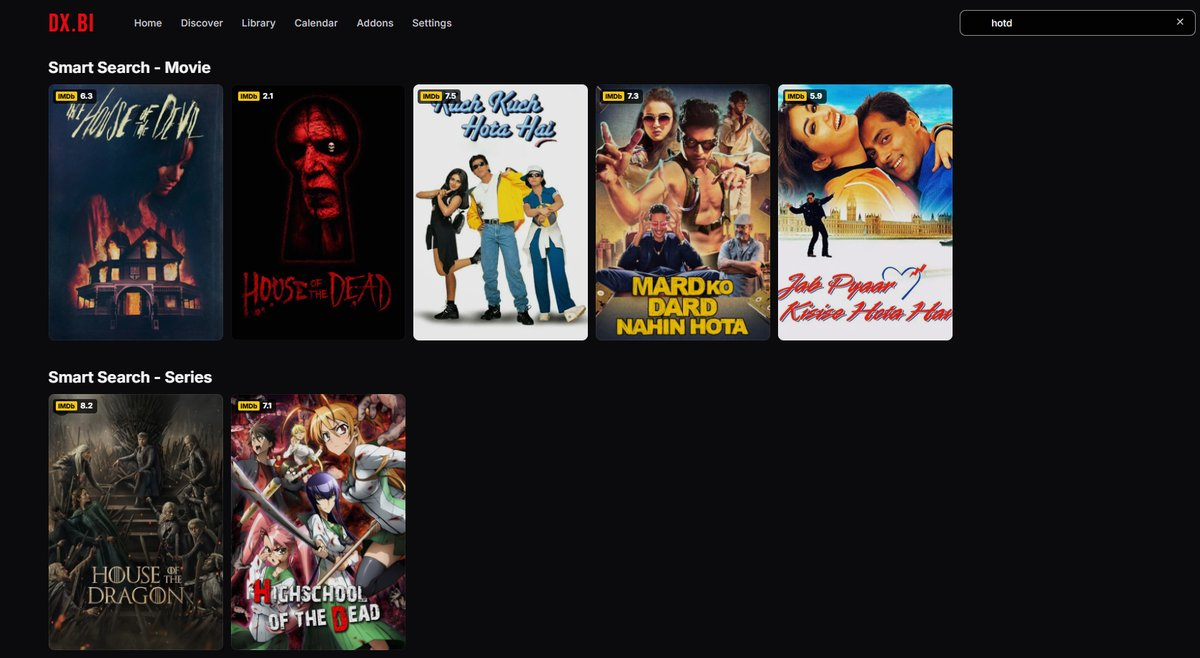
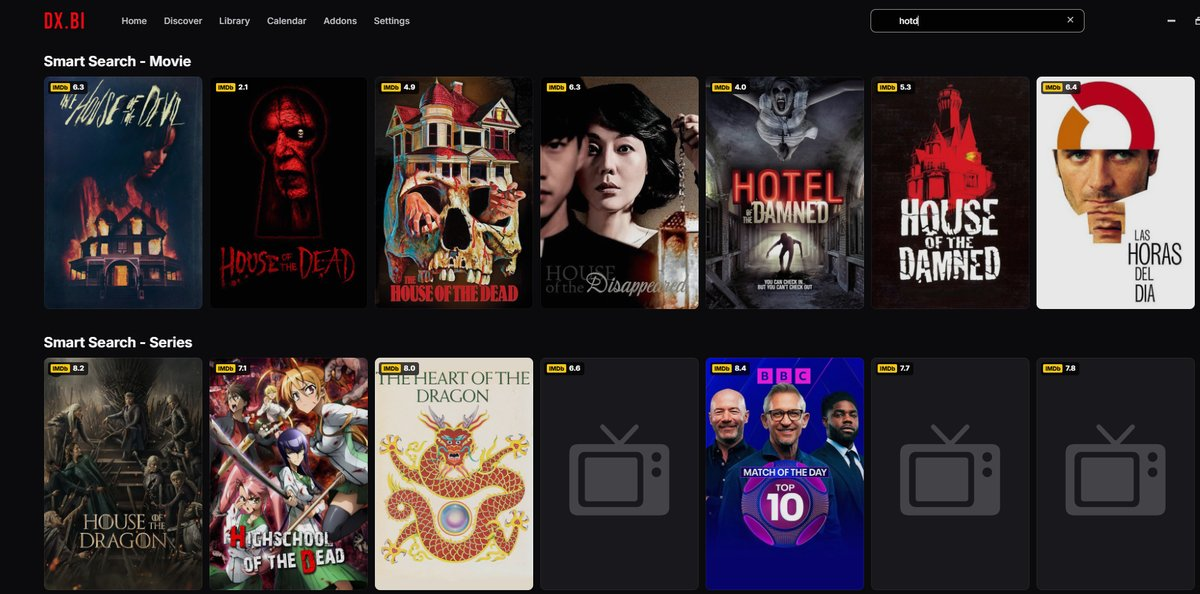
Use the Expanded catalogue screenshot for the after image
Built with Codex and Claude Code.

diff --git a/README.md b/README.md
@@ -12,10 +12,10 @@
 [![License: MIT](https://img.shields.io/badge/license-MIT-blue)](LICENSE)
 
 <table>
-<tr><th>Searching <code>hotd</code> without Smart Search</th><th>With Smart Search</th></tr>
+<tr><th>Searching <code>hotd</code> without Smart Search</th><th>With Smart Search (Expanded catalogue)</th></tr>
 <tr>
 <td><img src="docs/images/search-before.jpg" alt="dx.bi search for hotd without Smart Search: hot dog films and unrelated series" width="420"></td>
-<td><img src="docs/images/search-after.jpg" alt="dx.bi search for hotd with Smart Search: House of the Dragon is the first series result" width="420"></td>
+<td><img src="docs/images/search-after.jpg" alt="dx.bi search for hotd with Smart Search on the Expanded catalogue: House of the Dragon leads the series row and House of the Devil and House of the Dead lead the movies" width="420"></td>
 </tr>
 </table>
 
